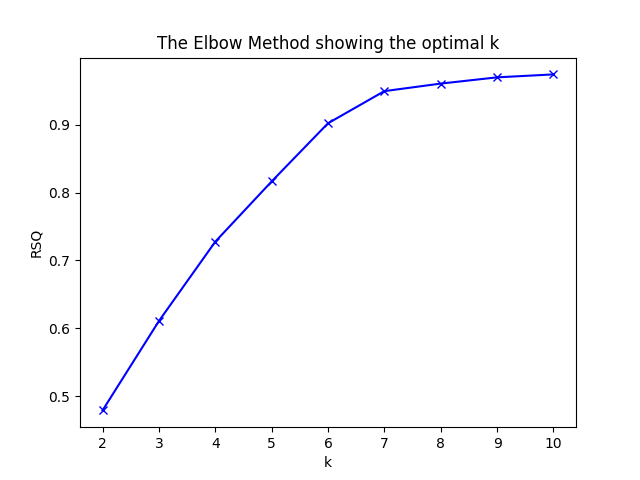
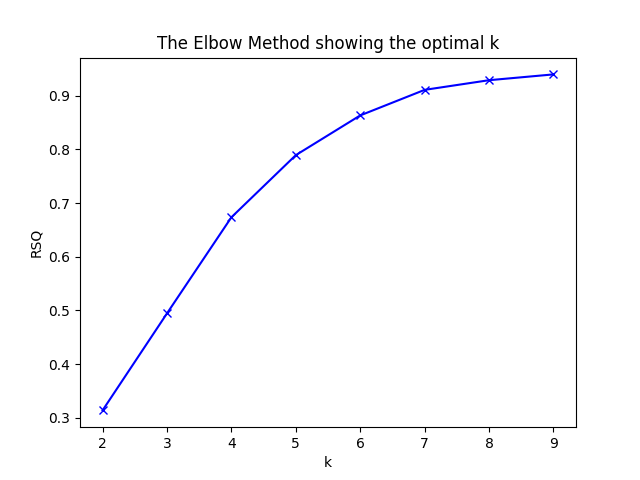
min fixes

diff --git a/data-mining/clustring.py b/data-mining/clustring.py
@@ -12,7 +12,7 @@ R_square_clustering = SourceFileLoader("r_square", "scripts/R_square_clustering.
 # read input text and put data inside a data frame
 fruits = pd.read_csv('data/fruit_data_with_colors.txt', sep='\t')
 X = pd.read_csv('data/fruit_data_with_colors.txt', sep='\t')
-X.drop(["fruit_name","fruit_subtype"], axis = 1, inplace = True) 
+X.drop(["fruit_name","fruit_subtype","fruit_label"], axis = 1, inplace = True) 
 
 scaler = MinMaxScaler()
 X_norm=scaler.fit_transform(X)
@@ -67,7 +67,7 @@ plt . savefig ('plot/k-means_ground_truth')
 plt . close ( fig )
 
 # metrique r2
-lst_k=range(2,11)
+lst_k=range(2,10)
 lst_rsq = []
 for k in lst_k:
 	est=KMeans(n_clusters=k)
